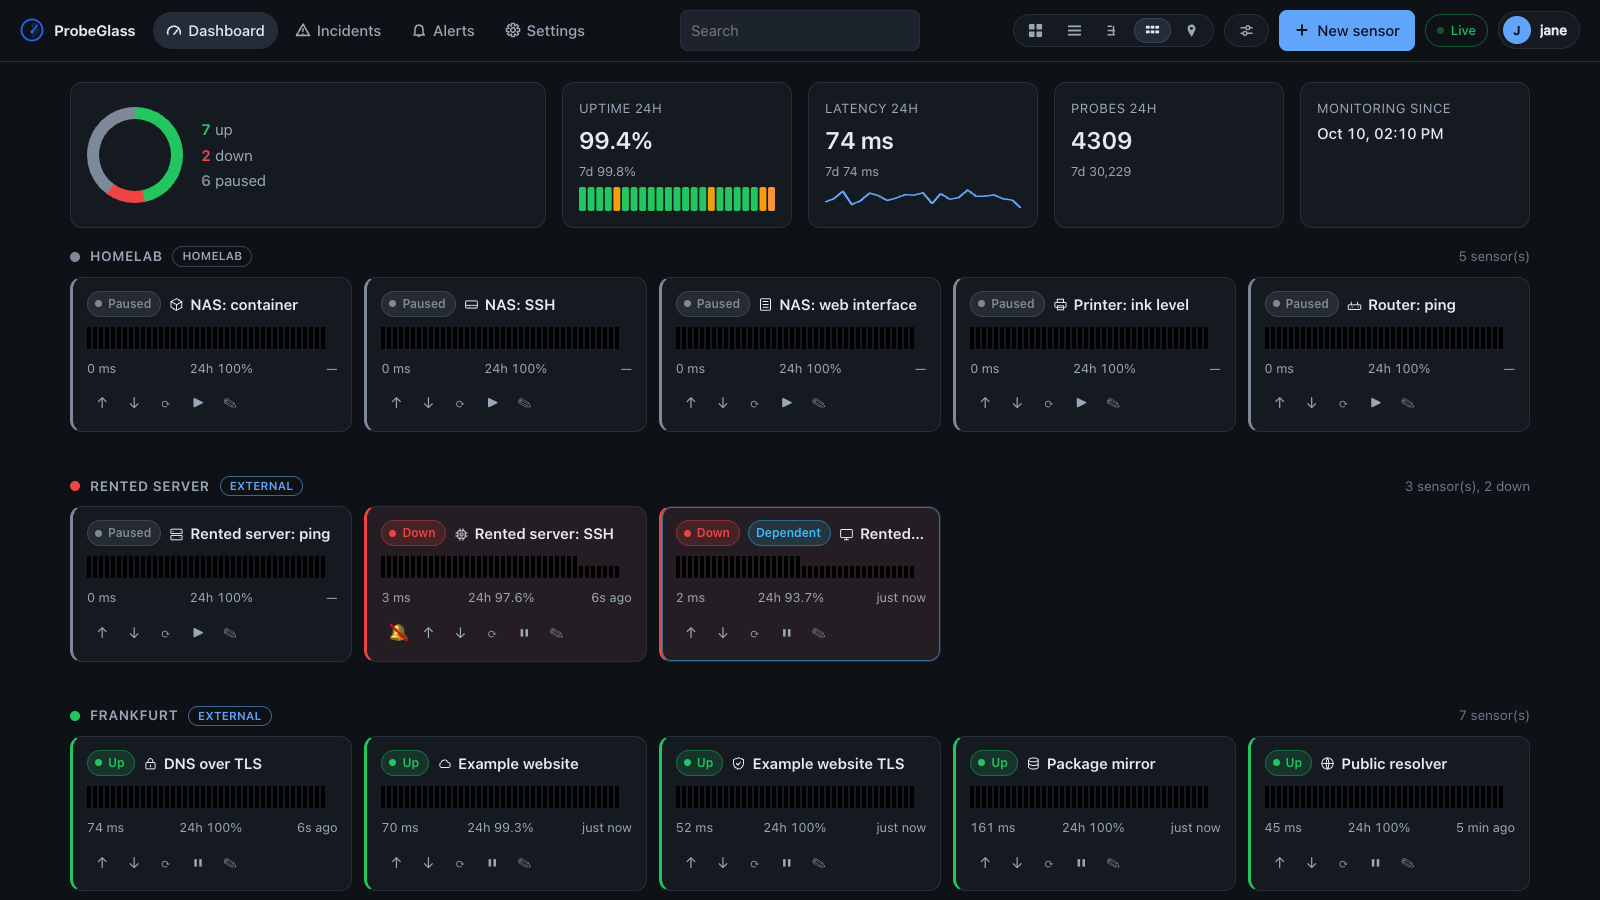
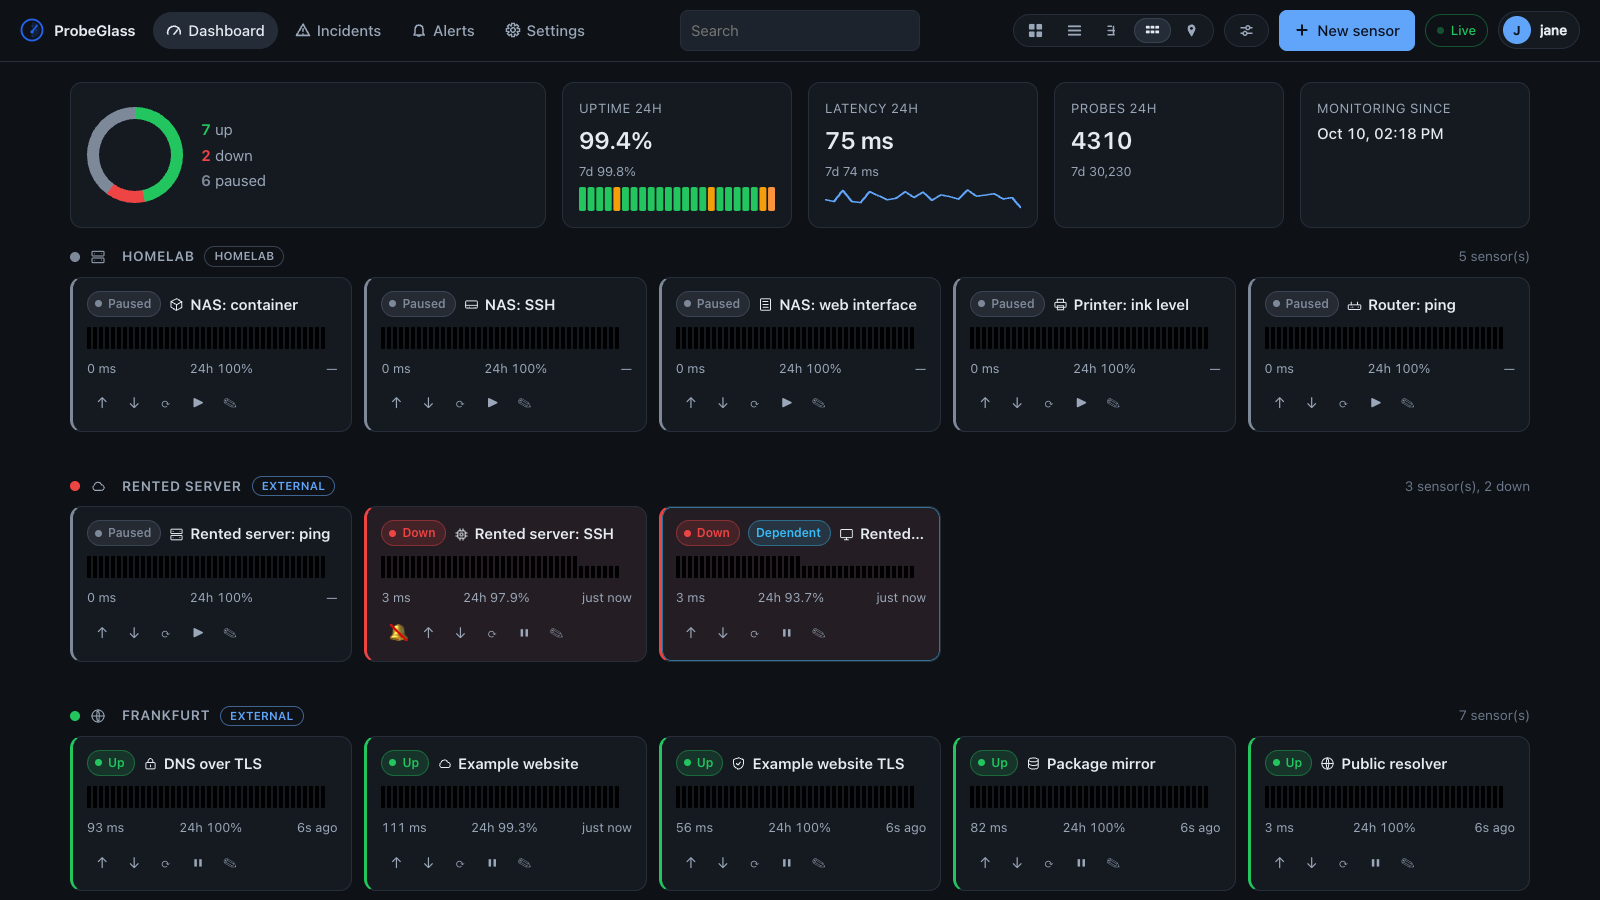
The place's own symbol, drawn where places are drawn
A site could be given an icon and nothing drew it: the field was in the editor and
the value was stored, and the tree, the wall and the settings list went on showing
only the little kind dot. A setting that appears in no view is a setting that looks
broken, which is how this was found — by reading the page about it back.

The tree's and the wall's headings now carry it in front of the place's name, and
the settings list carries it beside the row. It comes off the site's own row rather
than off the sensors under it, because it is a picture of the place: the machines in
the rack do not each wear it, the heading they are gathered under does. A site that
a sensor names but that has no row of its own — which the daemon creates on the way
past — simply has none, which is why the drawing is a function and not a field.

The demo data set's three places carry one too, so the feature is in the pictures
that show the tree and the wall rather than only in the page that describes it.

diff --git a/internal/web/assets/layouts.js b/internal/web/assets/layouts.js
@@ -109,6 +109,19 @@ function siteLabel(bucket) {
   return bucket.name || t('sites.none');
 }
 
+/**
+ * The symbol a place carries, if somebody gave it one.
+ *
+ * It comes off the site's own row rather than off the sensors, because it is a
+ * picture of the place: the machines in the rack do not each wear it, the heading
+ * they are gathered under does. A site named by a sensor but absent from the list
+ * — which the daemon creates on the way past — has no row here and therefore no
+ * symbol, which is why this is a function and not a field access.
+ */
+function siteIcon(bucket) {
+  return iconMarkup(bucket.site && bucket.site.icon, { size: 16, cls: 'icon-lead' });
+}
+
 /** The kind of place, as a tag. A site named by a sensor but absent from the list has none. */
 function kindTag(bucket) {
   const kind = bucket.site && bucket.site.kind;
@@ -164,6 +177,7 @@ export function renderTree(sensors, sites, ctx) {
       <summary class="site-head">
         ${CARET}
         <span class="legend-dot st-${esc(bucket.worst)}" aria-hidden="true"></span>
+        ${siteIcon(bucket)}
         <span class="site-name">${esc(siteLabel(bucket))}</span>
         ${kindTag(bucket)}
         <span class="site-count">${esc(headCount(bucket))}</span>
@@ -221,6 +235,7 @@ export function renderWall(sensors, sites, ctx) {
     <section class="wall-group">
       <h2 class="wall-head">
         <span class="legend-dot st-${esc(bucket.worst)}" aria-hidden="true"></span>
+        ${siteIcon(bucket)}
         ${esc(siteLabel(bucket))}
         ${kindTag(bucket)}
         <span class="wall-count">${esc(headCount(bucket))}</span>

diff --git a/internal/web/assets/app.js b/internal/web/assets/app.js
@@ -3659,6 +3659,7 @@ function sitesPanel() {
     <tr data-name="${esc(site.name)}" data-origin="${esc(site.origin || '')}">
       <td><span class="site-kind-cell">
         <i class="legend-dot k-${esc(site.kind)}" aria-hidden="true"></i>
+        ${iconUI.iconMarkup(site.icon, { size: 15 })}
         <b>${esc(site.name)}</b>
         ${site.origin === 'example' ? `<span class="pill badge-example" title="${esc(t('sites.exampleHint'))}">${esc(t('examples.badge'))}</span>` : ''}
       </span></td>

diff --git a/internal/demo/demo.go b/internal/demo/demo.go
@@ -54,12 +54,20 @@ type site struct {
 	kind      model.SiteKind
 	lat, lon  float64
 	sortOrder int
+	// icon is the symbol the heading of this place wears, as a built-in reference.
+	// A place carries one for the same reason a sensor does, and it is drawn where
+	// places are drawn: the tree and the wall, in front of the heading the machines
+	// under it are gathered by.
+	icon string
 }
 
 var sites = []site{
-	{name: "Homelab", kind: model.SiteLocal, lat: 52.5200, lon: 13.4050, sortOrder: 1},
-	{name: "Rented server", kind: model.SiteExternal, lat: 39.0438, lon: -77.4874, sortOrder: 2},
-	{name: "Frankfurt", kind: model.SiteExternal, lat: 50.1109, lon: 8.6821, sortOrder: 3},
+	{name: "Homelab", kind: model.SiteLocal, lat: 52.5200, lon: 13.4050, sortOrder: 1,
+		icon: icon.BuiltinRef("server")},
+	{name: "Rented server", kind: model.SiteExternal, lat: 39.0438, lon: -77.4874, sortOrder: 2,
+		icon: icon.BuiltinRef("cloud")},
+	{name: "Frankfurt", kind: model.SiteExternal, lat: 50.1109, lon: 8.6821, sortOrder: 3,
+		icon: icon.BuiltinRef("globe")},
 }
 
 // Places returns these three, ready to be written to the sites table.
@@ -85,6 +93,7 @@ func (d site) place() model.Site {
 		Kind:      d.kind,
 		Lat:       &lat,
 		Lon:       &lon,
+		Icon:      d.icon,
 		SortOrder: d.sortOrder,
 		Origin:    model.OriginExample,
 	}
